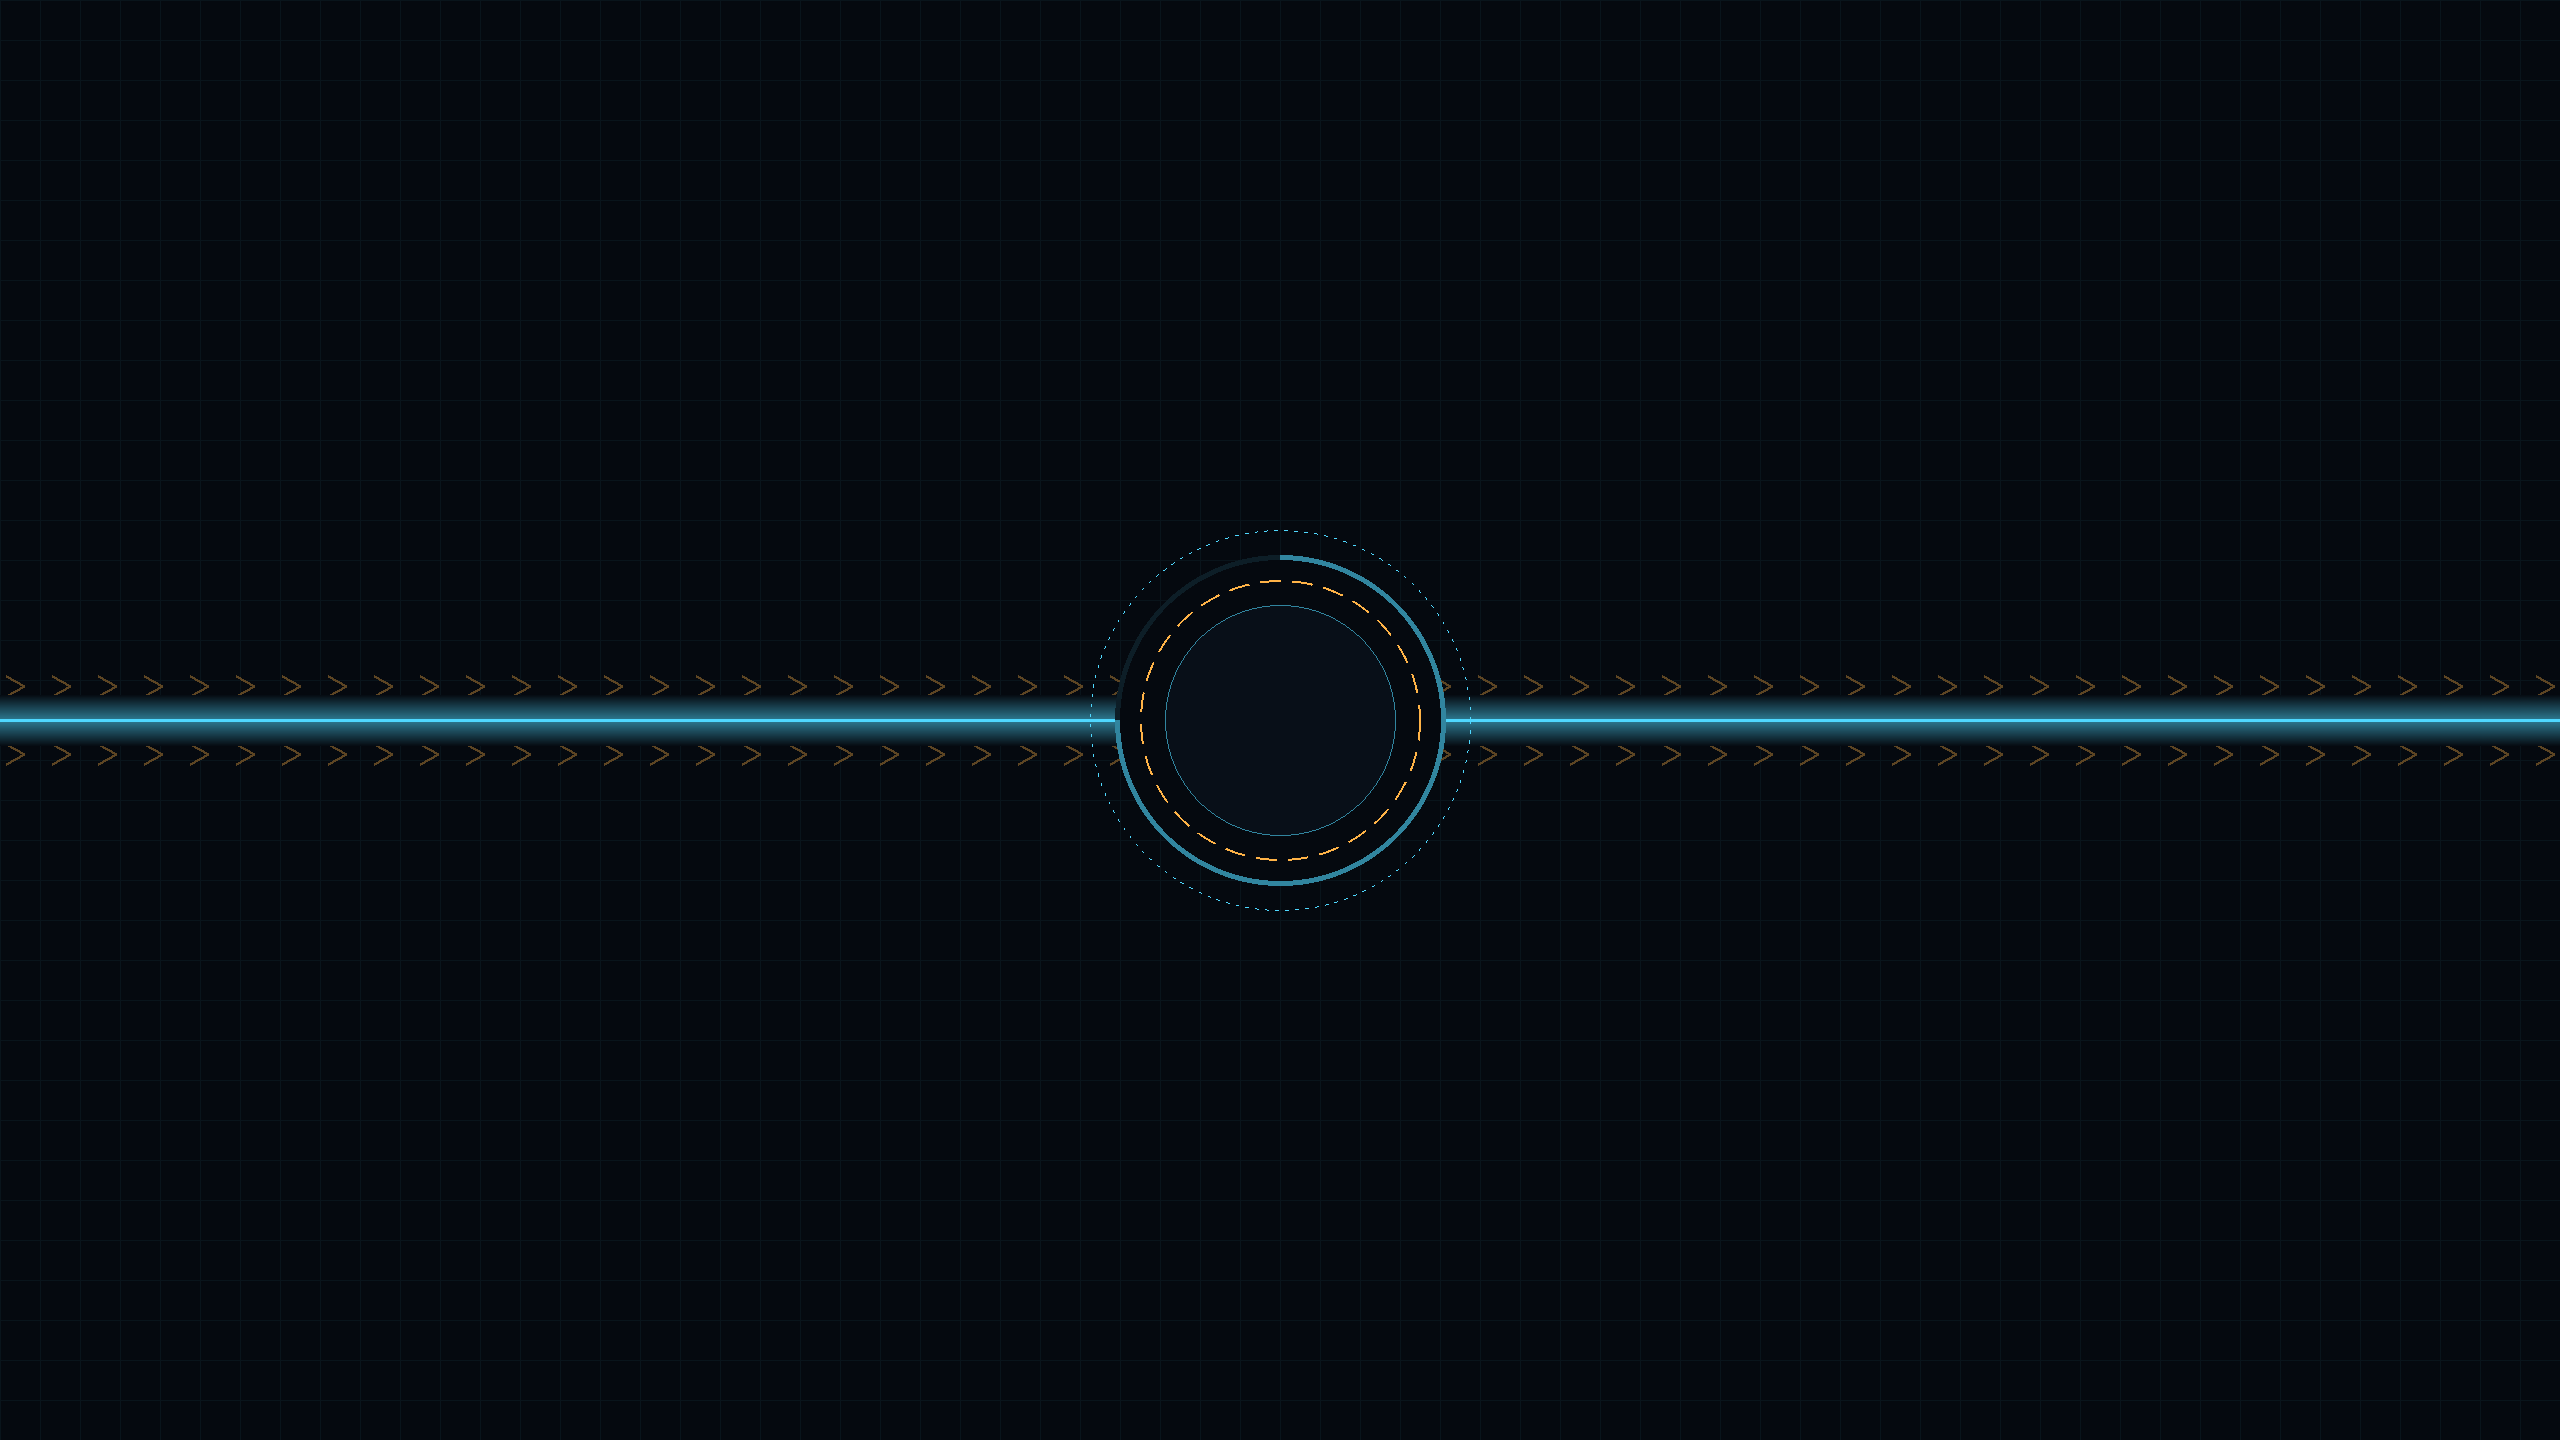
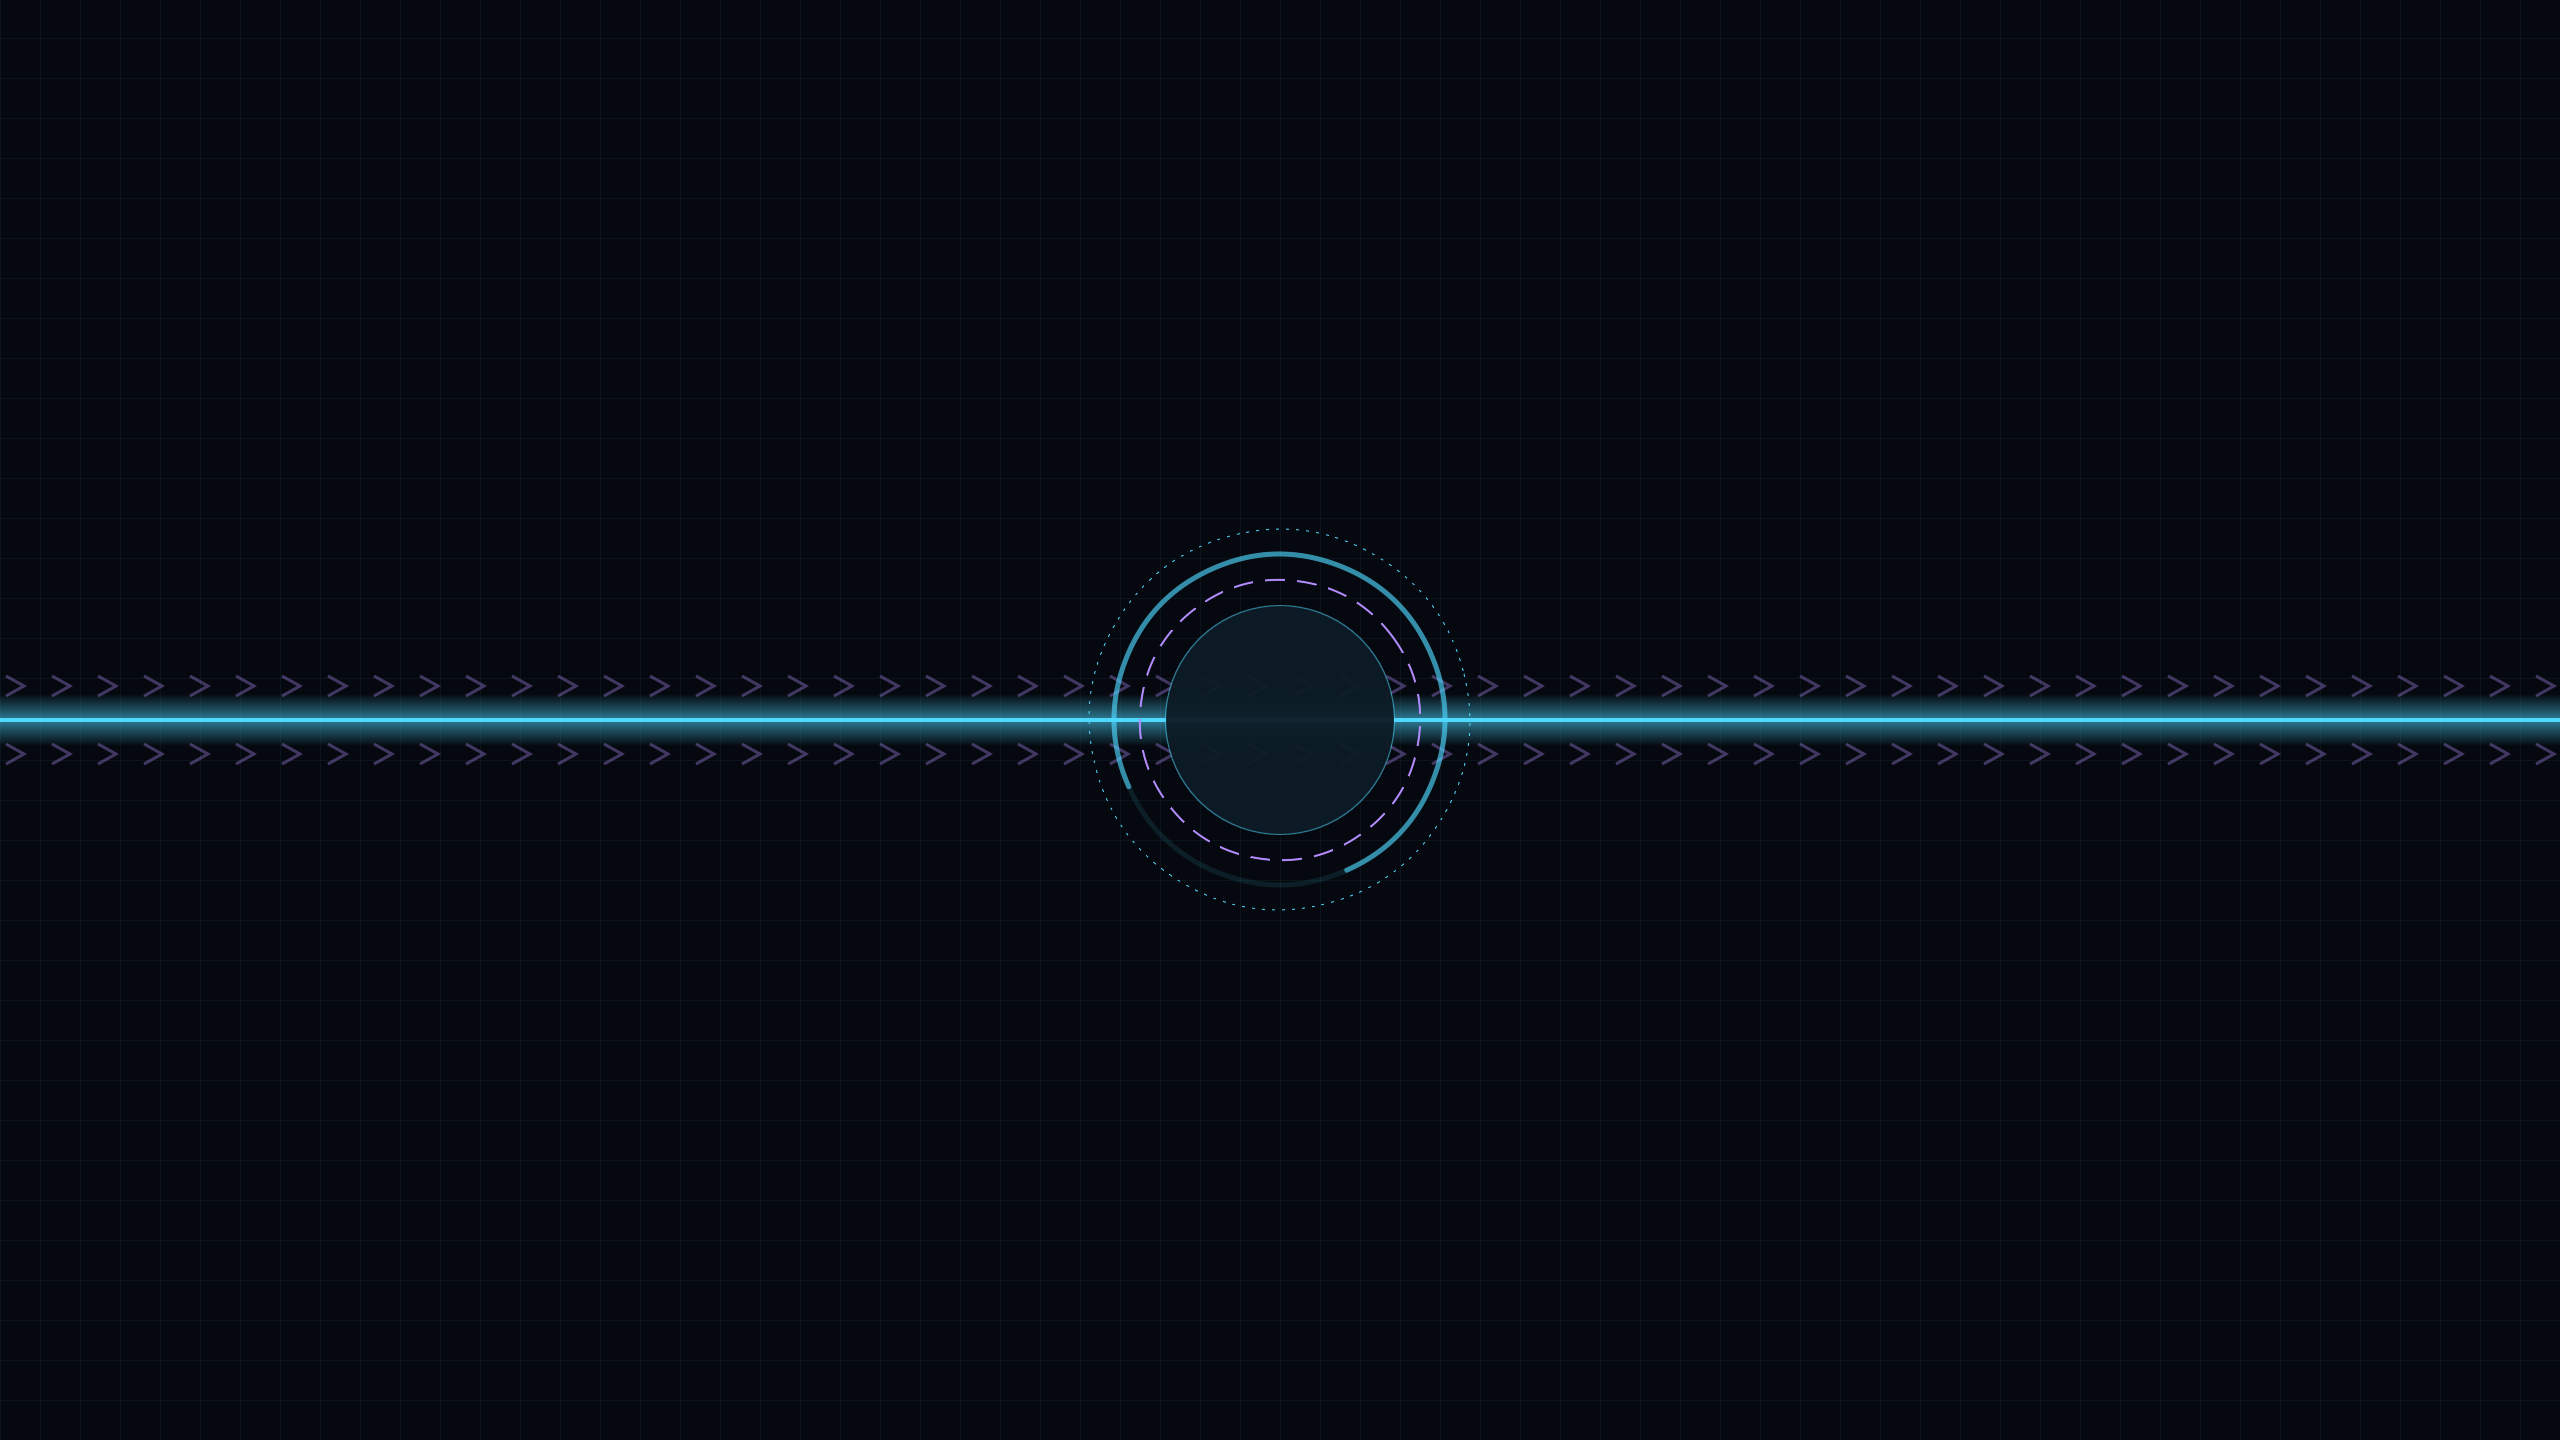
Casting to Roku: portal setup + STARK screen picker

diff --git a/.config/quickshell/Settings.qml b/.config/quickshell/Settings.qml
@@ -399,15 +399,14 @@ PanelWindow {
                     Toggle { width: parent.width; label: "Arc-reactor clock"; hint: "Main screen"; checked: Theme.cfg.showReactor; onToggled: Theme.cfg.showReactor = !Theme.cfg.showReactor }
                     Toggle { width: parent.width; label: "Diagnostics wall"; hint: "Second monitor, when docked"; checked: Theme.cfg.showDiag; onToggled: Theme.cfg.showDiag = !Theme.cfg.showDiag }
                     Toggle { width: parent.width; label: "Audio deck"; hint: "Laptop screen, when docked"; checked: Theme.cfg.showMedia; onToggled: Theme.cfg.showMedia = !Theme.cfg.showMedia }
+                    Toggle { width: parent.width; label: "Jarvis when docked"; hint: "Starts automatically when you plug into the monitors"; checked: Theme.cfg.jarvisDocked; onToggled: Theme.cfg.jarvisDocked = !Theme.cfg.jarvisDocked }
+                    Toggle { width: parent.width; label: "Jarvis on laptop only"; hint: "Off by default to save battery"; checked: Theme.cfg.jarvisLaptop; onToggled: Theme.cfg.jarvisLaptop = !Theme.cfg.jarvisLaptop }
                     Toggle {
                         width: parent.width
-                        label: "Jarvis voice assistant"
-                        hint: JarvisState.online ? "Listening for \"Hey Jarvis\"" : "Off"
+                        label: "Jarvis running now"
+                        hint: JarvisState.online ? "Listening for \"Hey Jarvis\" — this switch is a temporary override" : "Off"
                         checked: JarvisState.online
-                        onToggled: st.act(["sh", "-c", JarvisState.online
-                            ? "pkill -f jarvis.py; true"
-                            : "nohup ~/.config/jarvis/.venv/bin/python ~/.config/jarvis/jarvis.py >/dev/null 2>&1 &"],
-                            JarvisState.online ? "Stopping Jarvis" : "Starting Jarvis")
+                        onToggled: JarvisState.online ? JarvisState.stop() : JarvisState.start()
                     }
                     Row {
                         spacing: 10
@@ -449,6 +448,15 @@ PanelWindow {
                                 }
                             }
                         }
+                    }
+
+                    Text { text: "FINGERPRINT"; color: Theme.dim; font.family: st.mono; font.pixelSize: 11; font.letterSpacing: 3 }
+                    Text { text: "Unlock the lock screen with your finger (your password always works too)."; color: Theme.textSoft; font.family: st.mono; font.pixelSize: 12 }
+                    Row {
+                        spacing: 10
+                        SmallButton { text: "ENROLL A FINGER"; onClicked: { Hyprland.dispatch("exec kitty -e sh -c 'fprintd-enroll; echo; read -p \"Press Enter to close\"'"); LauncherState.closeAll(); } }
+                        SmallButton { text: "TEST"; onClicked: { Hyprland.dispatch("exec kitty -e sh -c 'fprintd-verify; echo; read -p \"Press Enter to close\"'"); LauncherState.closeAll(); } }
+                        ConfirmButton { label: "REMOVE ALL"; onConfirmed: st.act(["fprintd-delete", Quickshell.env("USER")], "Removing fingerprints") }
                     }
 
                     Text { text: "SLEEP & SCREEN"; color: Theme.dim; font.family: st.mono; font.pixelSize: 11; font.letterSpacing: 3 }

diff --git a/.config/quickshell/ControlCenter.qml b/.config/quickshell/ControlCenter.qml
@@ -108,6 +108,7 @@ PanelWindow {
                 SmallButton { text: "◈ LOCK"; onClicked: LockState.requestLock() }
                 SmallButton { text: "☾ SLEEP"; onClicked: { LauncherState.closeAll(); Quickshell.execDetached(["systemctl", "suspend"]); } }
                 SmallButton { text: "⏻ POWER"; onClicked: LauncherState.togglePower() }
+                SmallButton { text: "⇪ CAST"; onClicked: { Hyprland.dispatch("exec gnome-network-displays"); LauncherState.closeAll(); } }
             }
 
             // Toggles
@@ -125,9 +126,7 @@ PanelWindow {
                         { label: "MUTE", sub: cc.muted ? "muted" : "sound on", on: cc.muted,
                           act: () => { if (cc.sink && cc.sink.audio) cc.sink.audio.muted = !cc.muted; } },
                         { label: "JARVIS", sub: JarvisState.online ? "listening" : "offline", on: JarvisState.online,
-                          act: () => cc.run(JarvisState.online
-                                ? "pkill -f jarvis.py"
-                                : "~/.config/jarvis/.venv/bin/python ~/.config/jarvis/jarvis.py >/dev/null 2>&1 &") }
+                          act: () => JarvisState.online ? JarvisState.stop() : JarvisState.start() }
                     ]
                     delegate: Rectangle {
                         required property var modelData

diff --git a/.config/quickshell/PowerMode.qml b/.config/quickshell/PowerMode.qml
@@ -4,7 +4,7 @@
 //   • laptop screen 60 → 48 Hz
 //   • power profile → power-saver (if power-profiles-daemon is installed)
 //   • stats refresh every 5 s instead of 2 s
-//   • optionally pauses Jarvis
+//   • optionally pauses Jarvis (handled in JarvisState)
 // Everything goes back the moment you plug in.
 pragma Singleton
 import QtQuick
@@ -16,7 +16,6 @@ Singleton {
 
     readonly property bool onBattery: SysStats.discharging
     readonly property bool saver: Theme.cfg.autoSaver && onBattery
-    property bool stoppedJarvis: false
 
     onSaverChanged: applyTimer.restart()
     Component.onCompleted: applyTimer.restart()
@@ -45,12 +44,5 @@ Singleton {
         Quickshell.execDetached(["sh", "-c",
             "command -v powerprofilesctl >/dev/null && powerprofilesctl set " + (s ? "power-saver" : "balanced")]);
 
-        if (s && Theme.cfg.saverStopJarvis && JarvisState.online) {
-            root.stoppedJarvis = true;
-            Quickshell.execDetached(["pkill", "-f", "jarvis.py"]);
-        } else if (!s && root.stoppedJarvis) {
-            root.stoppedJarvis = false;
-            Quickshell.execDetached(["sh", "-c", "nohup ~/.config/jarvis/.venv/bin/python ~/.config/jarvis/jarvis.py >/dev/null 2>&1 &"]);
-        }
     }
 }

diff --git a/.config/quickshell/JarvisState.qml b/.config/quickshell/JarvisState.qml
@@ -44,4 +44,22 @@ Singleton {
         interval: 5000; running: true; repeat: true
         onTriggered: if (Date.now() - root.lastBeat > 15000) root.online = false
     }
+
+    // ── Auto on/off ──
+    // Docked → on, laptop only → off (both changeable in Settings → HUD),
+    // and off on battery if the battery saver is set to pause it.
+    readonly property bool wanted: (Roles.docked ? Theme.cfg.jarvisDocked : Theme.cfg.jarvisLaptop)
+                                   && !(PowerMode.saver && Theme.cfg.saverStopJarvis)
+    function start() {
+        Quickshell.execDetached(["sh", "-c",
+            "pgrep -f '[j]arvis.py' >/dev/null || nohup ~/.config/jarvis/.venv/bin/python ~/.config/jarvis/jarvis.py >/dev/null 2>&1 &"]);
+    }
+    function stop() {
+        Quickshell.execDetached(["pkill", "-f", "jarvis.py"]);
+        root.online = false;
+    }
+    function sync() { if (root.wanted) root.start(); else root.stop(); }
+    onWantedChanged: syncTimer.restart()
+    Component.onCompleted: syncTimer.restart()
+    Timer { id: syncTimer; interval: 3000; onTriggered: root.sync() }
 }

diff --git a/.config/quickshell/Theme.qml b/.config/quickshell/Theme.qml
@@ -42,6 +42,8 @@ Singleton {
             property bool saverNoBlur: true
             property bool saverLowRefresh: true      // laptop screen 60 → 48 Hz on battery
             property bool saverStopJarvis: false
+            property bool jarvisDocked: true          // Jarvis listens when docked
+            property bool jarvisLaptop: false         // …and when it's just the laptop
             property int idleDim: 3                  // minutes (0 = never)
             property int idleLock: 5
             property int idleScreenOff: 10
